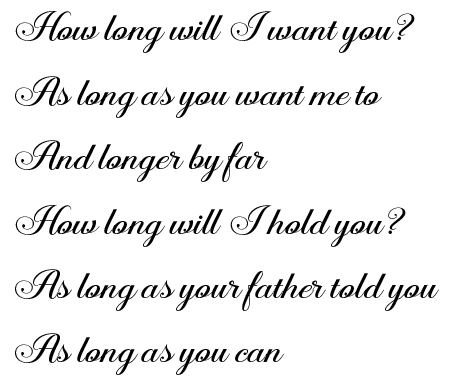
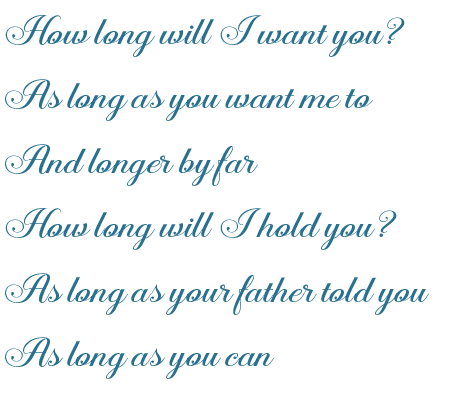
update

diff --git a/tai-anh/style.css b/tai-anh/style.css
@@ -472,6 +472,7 @@
     flex-direction: column;
     text-align: center;
     padding-bottom: 100px;
+    color: var(--primary-color);
 }
 .name{
     font-family: '1FTV Blushing Rose';
@@ -522,6 +523,7 @@
     flex-direction: column;
     justify-content: center;
     text-align: center;
+    color: var(--primary-color);
 }
 
 .trantrong{
@@ -560,6 +562,7 @@ strong{
     font-size: 2.5em;
     margin-right: 20px;
     margin-top: 100px;
+    color: var(--primary-color);
 }
 
 .box-timeline{
@@ -612,6 +615,7 @@ strong{
     padding: 0 8px;
     font-weight: 300;
     font-size: .7em;
+    color: var(--primary-color );
 }
 
 .box-img2{
@@ -646,6 +650,7 @@ strong{
     font-weight: 300;
     font-size: 14px;
     margin-top: -180px;
+    color: var(--primary-color);
 }
 
 .img-four{
@@ -688,6 +693,7 @@ strong{
     padding: 0 8px;
     font-weight: 300;
     font-size: 30px;
+    color: var(--primary-color);
 }
 
 .feed-info{
@@ -709,6 +715,7 @@ strong{
     font-weight: 500;
     margin: 20px;
     border: none;
+    color: var(--primary-color);
     }
 
     
@@ -767,6 +774,7 @@ border-radius: 20px;
   font-style: normal;
   font-size: 13px;
   font-weight: 400;
+  color: var(--primary-color);
   }
   .container-check {
     margin-top: 20px;
@@ -894,11 +902,62 @@ border-radius: 20px;
     z-index: 0;
 }
 
+.box-qr{
+    display: flex;
+    flex-direction: column;
+    align-items: center;
+    justify-content: center;
+    font-family: 'SVN-Gotham';  
+    margin-top: 50px;
+    color: var(--primary-color);
+}
+
+.box-lb-qr{
+    width: 100%;
+    display: flex;
+    flex-direction: column;
+    align-items: flex-start;
+    justify-content: center;
+    padding-left: 30px;
+}
+
+.lb-qr1{
+    font-size: .7em;
+    font-weight: 300;
+}
+
+.lb-qr2{
+    font-size: .8em;
+}
+
+.qr-item{
+    display: flex;
+    align-items: center;
+    justify-content: space-between;
+    padding: 0 50px;
+    width: 100%;
+    margin: 20px 0 50px;
+}
+
+.img-qr2{
+    width: 30%;
+}
+
+.lb-qr3{
+    font-size: .7em;
+    font-weight: 400;
+    text-align: center;
+    padding-left: -70px;
+}
+
 @media (max-width: 480px){
     .container {
         width: 100%;
     }
+    .qr-item{
+    padding: 0 30px;
 
+}
 }
 
 

diff --git a/thiepmoi.html b/thiepmoi.html
@@ -68,9 +68,9 @@
             <div class="box-timeline">
                 <img src="./tai-anh/anh/time-05.png" alt="" class="img-timeline">
             </div>
-            <div class="box-dresscode">
+            <!-- <div class="box-dresscode">
                 <img src="./tai-anh/anh/dresscode-05.png" alt="" class="dresscode">
-            </div>
+            </div> -->
             <div class="box-container">
                 <div class="box-top">
                     <div class="top-p">
@@ -141,9 +141,22 @@
                         <button class="xacnhan" type="submit">XÁC NHẬN</button>
                     </div>
             </form>
+            <div class="box-qr">
+                <div class="box-lb-qr">
+                    <label for="" class="lb-qr1">MỪNG CƯỚI SỚM</label>
+                    <label for="" class="lb-qr2">ĐẾN CÔ DÂU NHẬT ANH VÀ CHÚ RỂ ANH TÀI</label>
+                </div>
+                <div class="qr-item">
+                    <img src="./tai-anh/anh/qr-06.png" alt="" class="img-qr2">
+                    <label for="" class="lb-qr3">CHỦ TÀI KHOẢN: NGUYEN NHAT ANH <br>
+                                            Số tài khoản: 1907 3201 1770 12 <br>
+                                        Ngân hàng TCP Kỹ Thương - Techcomback</label>
+                </div>
+            </div>
             <div class="box-end">
                 <label for="" class="time-end">17.10.2025</label>
             </div>
+            
         </div>
     </div>
 
